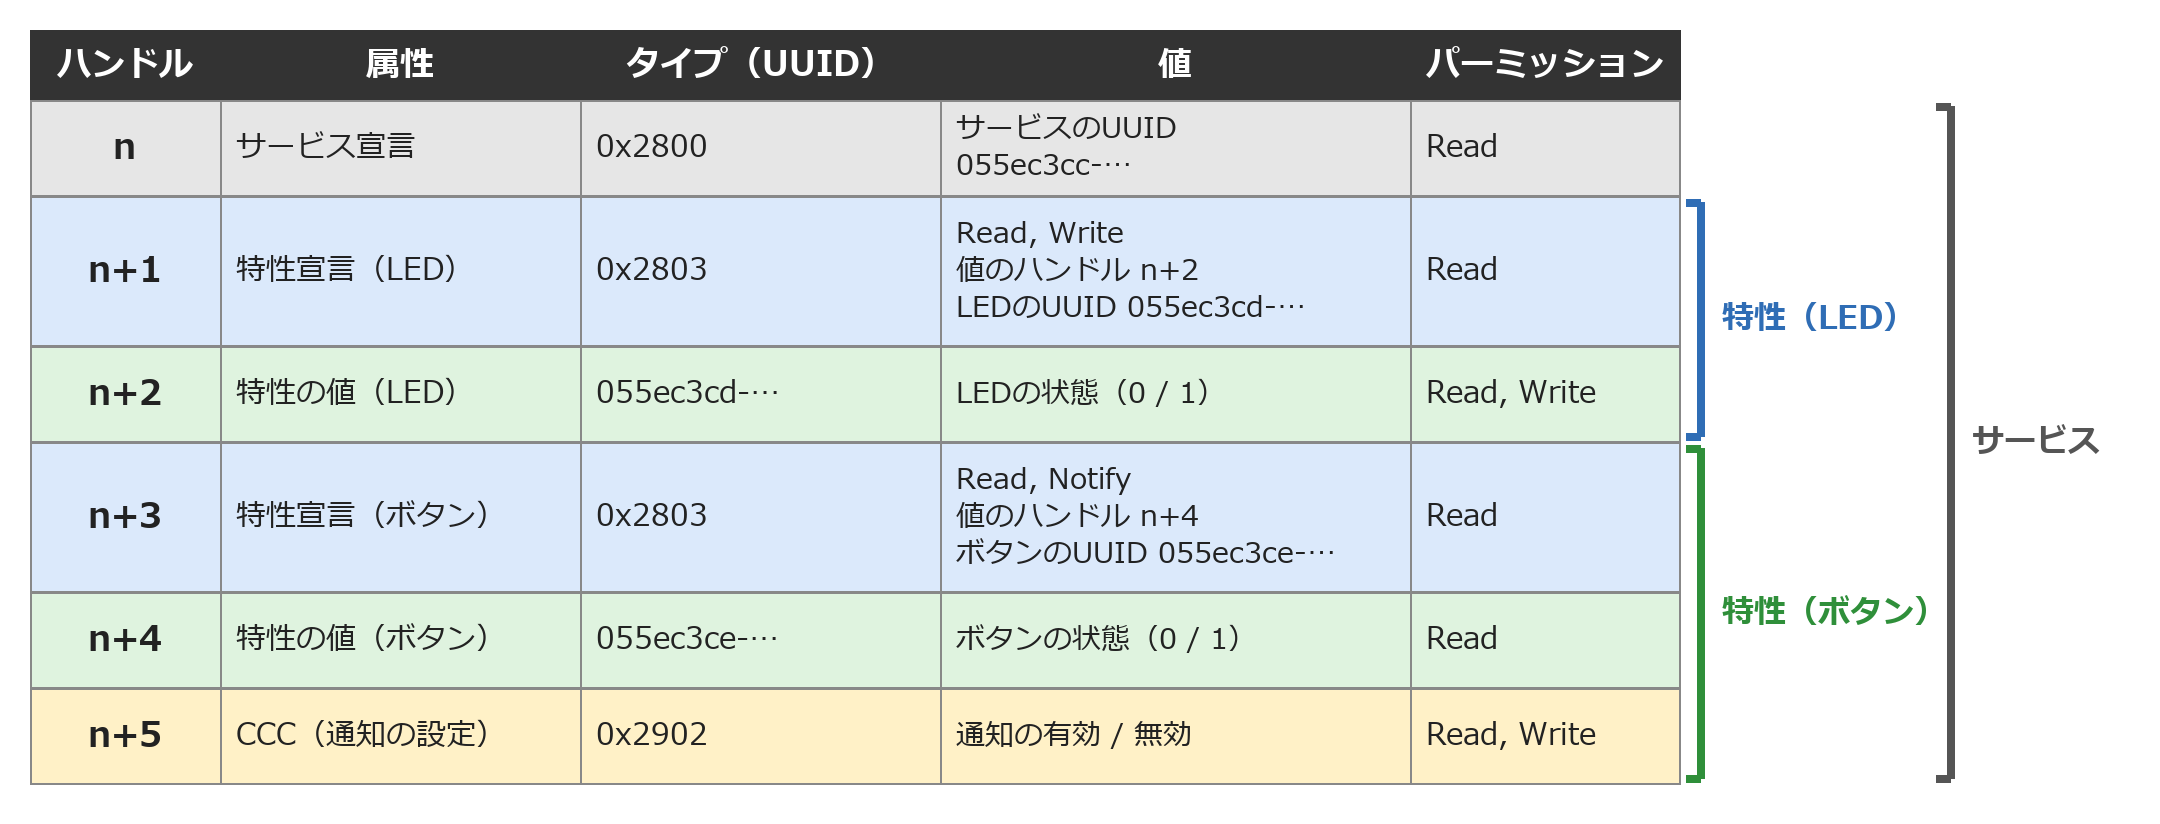
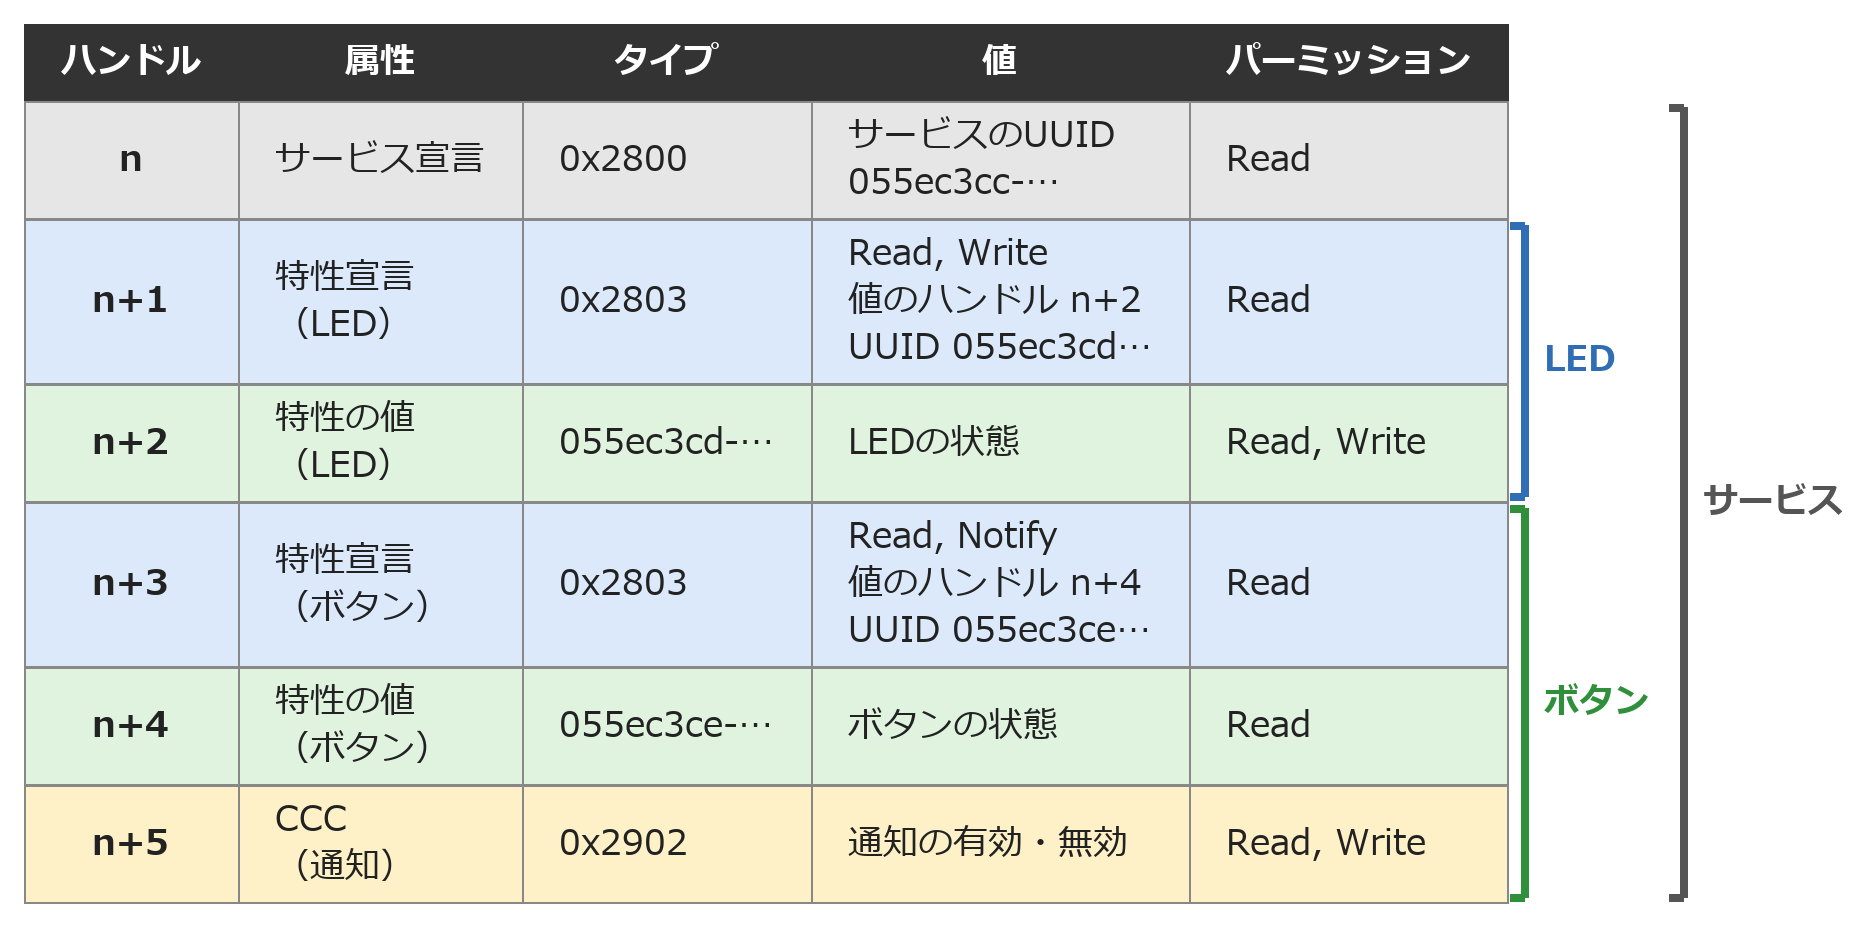
ファビコンを追加し、Zephyr入門 (5) の属性の図を見やすくする

diff --git a/_includes/head.html b/_includes/head.html
@@ -3,6 +3,9 @@
   <meta http-equiv="X-UA-Compatible" content="IE=edge">
   <meta name="viewport" content="width=device-width, initial-scale=1">
   {%- seo -%}
+  <link rel="icon" href="{{ "/assets/favicon.ico" | relative_url }}" sizes="any">
+  <link rel="icon" type="image/png" sizes="32x32" href="{{ "/assets/favicon-32.png" | relative_url }}">
+  <link rel="apple-touch-icon" href="{{ "/assets/apple-touch-icon.png" | relative_url }}">
   <link rel="stylesheet" href="{{ "/assets/main.css" | relative_url }}">
   {%- feed_meta -%}
   {%- if jekyll.environment == 'production' and site.google_analytics -%}

diff --git a/_posts/2026-11-09-zephyr-5.md b/_posts/2026-11-09-zephyr-5.md
@@ -54,7 +54,7 @@ GATTは、BLE機器が持つデータを**属性（Attribute）**という最小
 |-|-|
 | ハンドル（Attribute Handle） | 属性の番号（16ビット）。サーバーの中で属性を1つずつ区別する |
 | タイプ（Attribute Type） | 属性の種類。UUIDで表す |
-| パーミッション（Permissions） | その属性に許す操作（読み、書き、暗号化が必要か、など）。ATTでは読めない |
+| パーミッション（Permissions） | その属性に許す操作（読み、書き、暗号化が必要か、など） |
 | 値（Attribute Value） | 属性が持つデータ。タイプが意味を決め、ハンドルで指定する |
 
 <br>
@@ -396,7 +396,7 @@ int main(void)
 
 この4種類のマクロが作る属性を、以下に示す。ハンドルの`n`は、Bluetoothのスタックが割り当てる番号である。属性は、ハンドルが小さい順に、この図の順で並ぶ。`n+1`などの表記は、並びを示す記号であり、実際の差が1とは限らない。<br>
 
-<img src="/img/1108_7.png" width="80%" height="auto"><br>
+<img src="/img/1108_7.png" width="90%" height="auto"><br>
 
 <br>
 
@@ -448,7 +448,7 @@ BLEの通信が成功していることを実機で確認できた。<br>
 
 <img src="/img/1108_4.jpeg" width="40%" height="auto"><br>
 
-<img src="/img/1108_2.jpeg" width="80%" height="auto"><br>
+<img src="/img/1108_2.jpeg" width="40%" height="auto"><br>
 
 <br><br>
 
